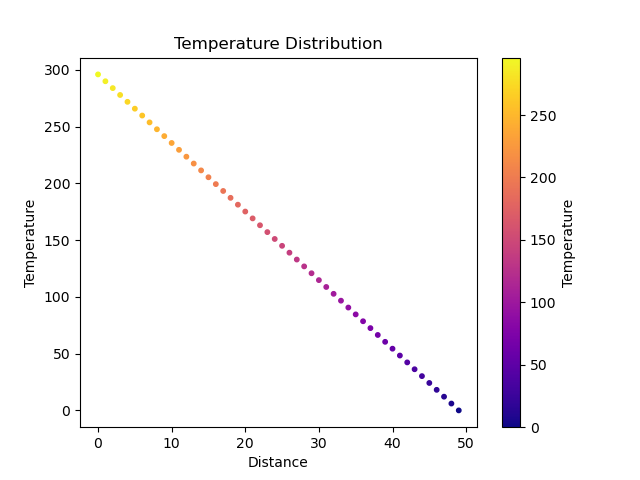
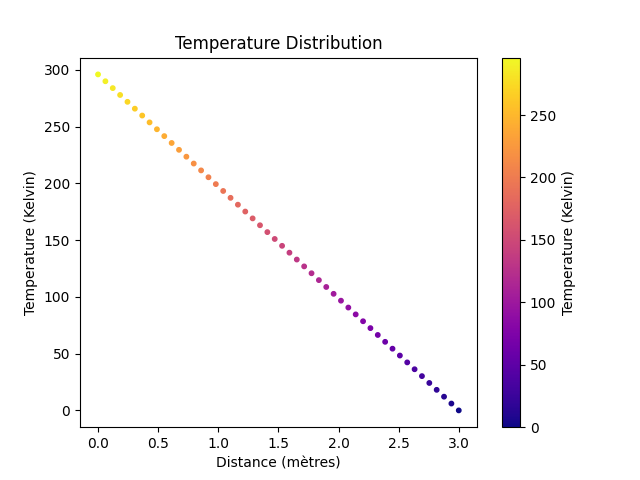
oui

diff --git a/main.py b/main.py
@@ -2,17 +2,17 @@ import numpy as np
 from matplotlib import pyplot as plt
 from matplotlib import cm
 
+temperature = 296
+distance = 3
+n = 50
 
-temperature=296
-n=5
 main_diag = np.eye(n) * -2
 upper_diag = np.eye(n, k=1)
 lower_diag = np.eye(n, k=-1)
 mat = main_diag + upper_diag + lower_diag
-mat[0] = [1]+[0] * (n-1)
-mat[n-1] = [0] * (n-1) + [1]
+mat[0] = [1] + [0] * (n - 1)
+mat[n - 1] = [0] * (n - 1) + [1]
 print(mat)
-               
 
 left = np.array([[temperature if i == 0 else 0 for i in range(n)]]).transpose()
 
@@ -28,12 +28,12 @@ norm = plt.Normalize(x.min(), x.max())
 # Create a color map for the temperatures
 colors = cm.plasma(norm(x))
 fig, ax = plt.subplots()  # Create a new figure and axes
-plt.scatter(range(n), x, color=colors, s=10)
+plt.scatter(np.linspace(0, distance, n), x, color=colors, s=10)
 plt.xlabel('Distance (mètres)')
 plt.ylabel('Temperature (Kelvin)')
 plt.title('Temperature Distribution')
 cbar = plt.colorbar(cm.ScalarMappable(norm=norm, cmap=cm.plasma), ax=ax)  # Specify the axes for the Colorbar
-cbar.set_label('Temperature')
+cbar.set_label('Temperature (Kelvin)')
 
 plt.show()
 
